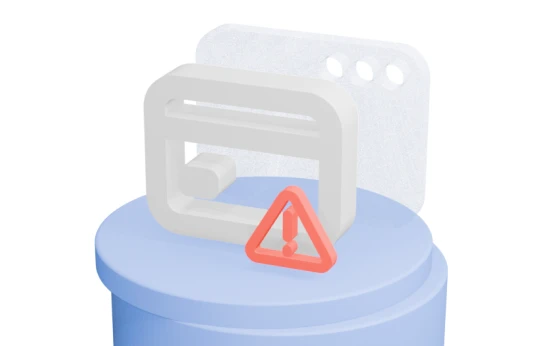
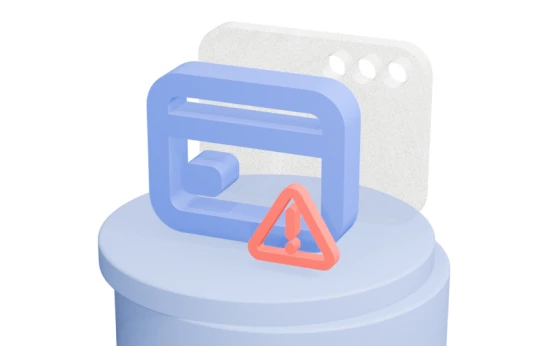
Updates image assets and adjusts padding
Renames and replaces image assets for consistency and
updates CSS padding for better UI alignment.

diff --git a/src/pages/personal/SecuritrateDigitala/SecuritateDigitala.tsx b/src/pages/personal/SecuritrateDigitala/SecuritateDigitala.tsx
@@ -251,7 +251,7 @@ export default function SecuritateDigitala() {
         <div className={styles.solutions_card}>
           <img
             className={styles.solutions_card_img}
-            src="/images/landings/79864621.webp"
+            src="/images/landings/79864622.webp"
             alt="Moldtelecom"
           />
           <div className={styles.solutions_card_inside}>

diff --git a/src/pages/personal/SecuritrateDigitala/SecuritateDigitala.module.css b/src/pages/personal/SecuritrateDigitala/SecuritateDigitala.module.css
@@ -438,7 +438,7 @@
   border-radius: 100px;
   background: #adbbff;
   display: inline-flex;
-  padding: 10px 12px;
+  padding: 10px 12px 8px;
   justify-content: center;
   align-items: center;
   gap: 10px;
